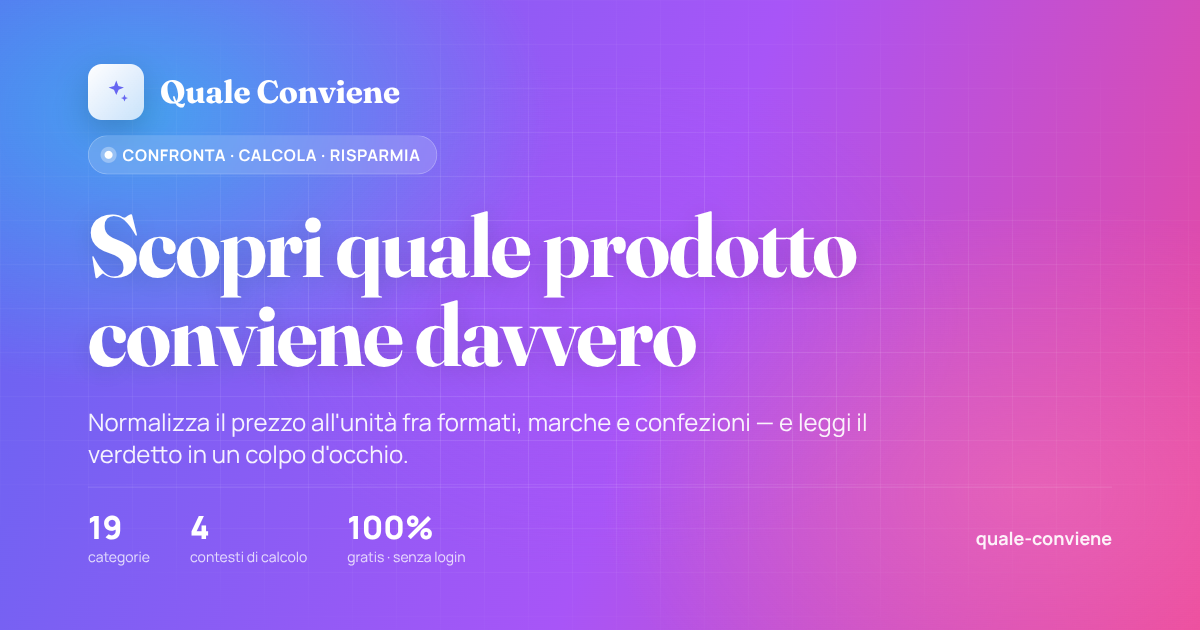
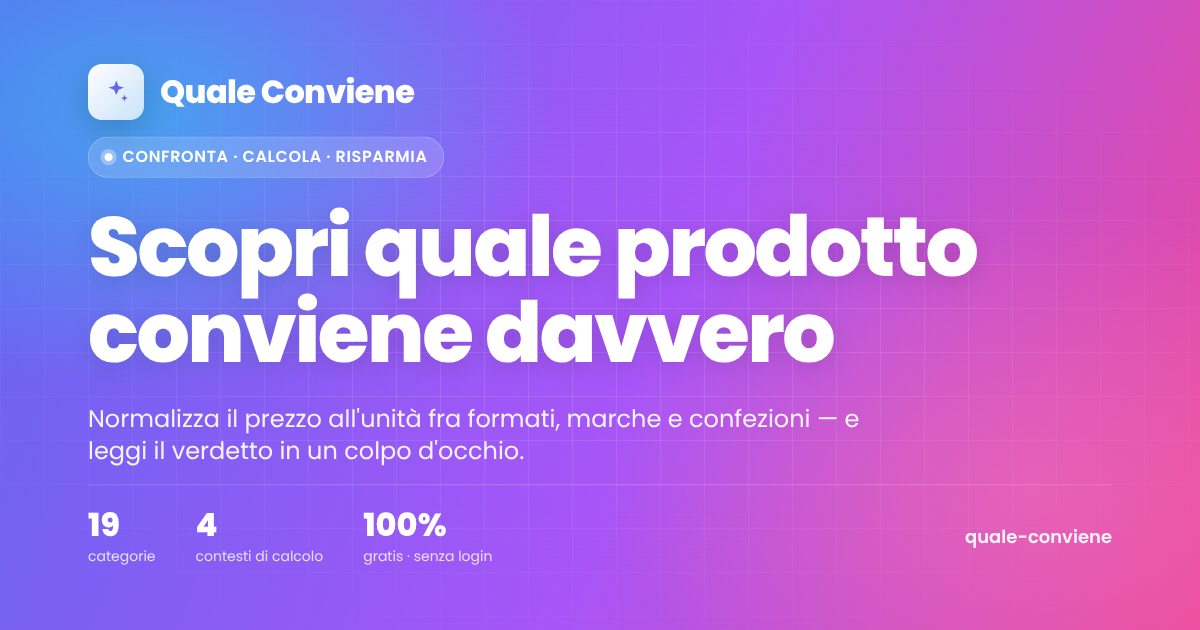
feat: switch typography to Poppins + bump base size to 17px
- Replace Manrope + Fraunces with a single Poppins family (weights
  400/500/600/700/800). Poppins has more open apertures and a more familiar
  silhouette — better for an audience that's not all 20-year-olds.
- Bump html font-size from 16px to 17px so every rem-scaled element grows
  ~6%. Body line-height set to 1.55 for breathing room. Shadcn primitives
  scale through too (Input/Button heights are rem-based).
- display-title uses Poppins 800 with tighter -0.025em tracking to keep
  the gradient h1s punchy after losing the serif.
- Regenerate /og-image.png from the updated template so the social preview
  reflects the new typography.

diff --git a/src/styles.css b/src/styles.css
@@ -1,4 +1,4 @@
-@import url('https://fonts.googleapis.com/css2?family=Fraunces:opsz,wght@9..144,500;9..144,700&family=Manrope:wght@400;500;600;700;800&display=swap');
+@import url('https://fonts.googleapis.com/css2?family=Poppins:wght@400;500;600;700;800&display=swap');
 @import 'tailwindcss';
 @plugin '@tailwindcss/typography';
 
@@ -120,8 +120,8 @@
 }
 
 @theme inline {
-  --font-sans: 'Manrope', ui-sans-serif, system-ui, sans-serif;
-  --font-display: 'Fraunces', Georgia, serif;
+  --font-sans: 'Poppins', ui-sans-serif, system-ui, sans-serif;
+  --font-display: 'Poppins', ui-sans-serif, system-ui, sans-serif;
   --color-background: var(--background);
   --color-foreground: var(--foreground);
   --color-card: var(--card);
@@ -166,10 +166,18 @@ body,
   min-height: 100%;
 }
 
+/* Bumped base from 16px to 17px so every rem-scaled text grows ~6%.
+   Targets the actual audience: shoppers comparing supermarket prices on
+   their phones, not designers staring at 24" 4K monitors. */
+html {
+  font-size: 17px;
+}
+
 body {
   margin: 0;
   font-family: var(--font-sans);
   color: var(--foreground);
+  line-height: 1.55;
   background-color: var(--background);
   background-image:
     radial-gradient(1100px 700px at 8% -10%, var(--glow-a), transparent 58%),
@@ -254,7 +262,8 @@ body::before {
 
 .display-title {
   font-family: var(--font-display);
-  letter-spacing: -0.02em;
+  font-weight: 800;
+  letter-spacing: -0.025em;
 }
 
 button,
